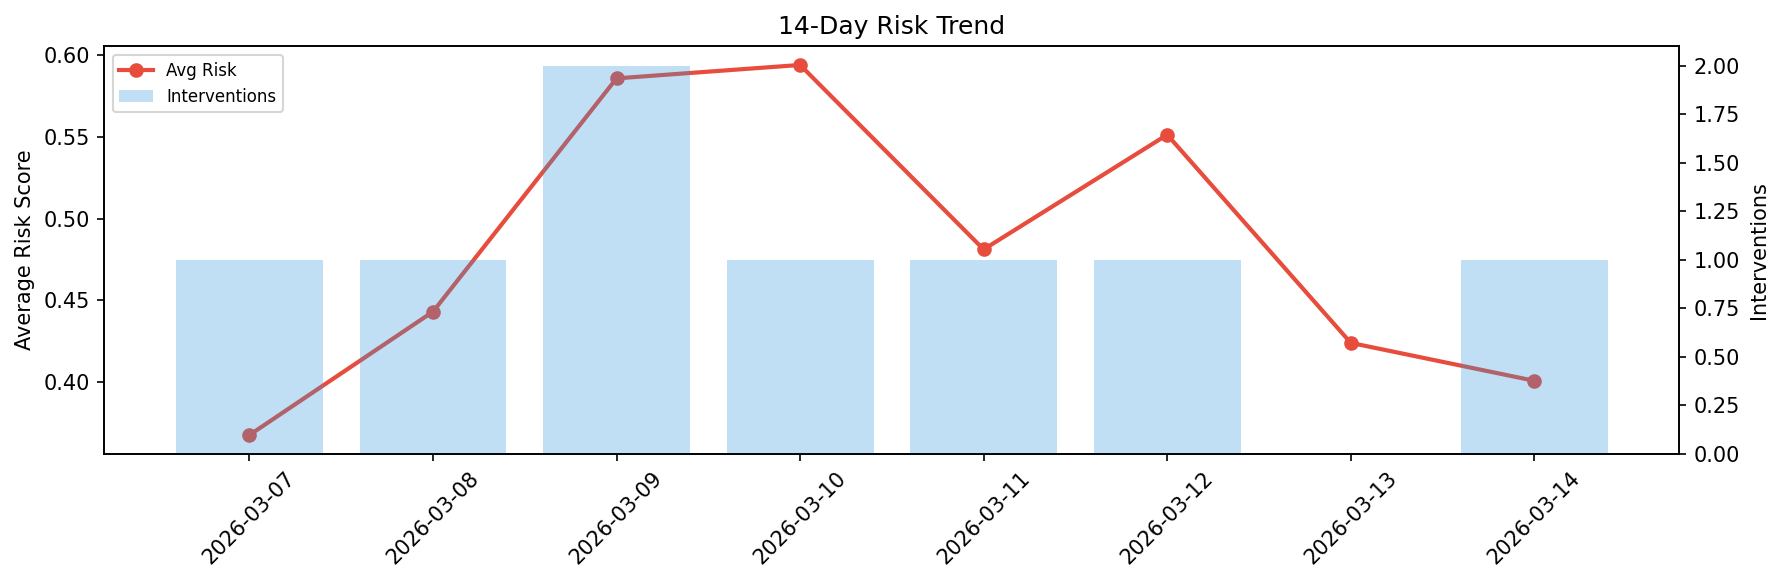
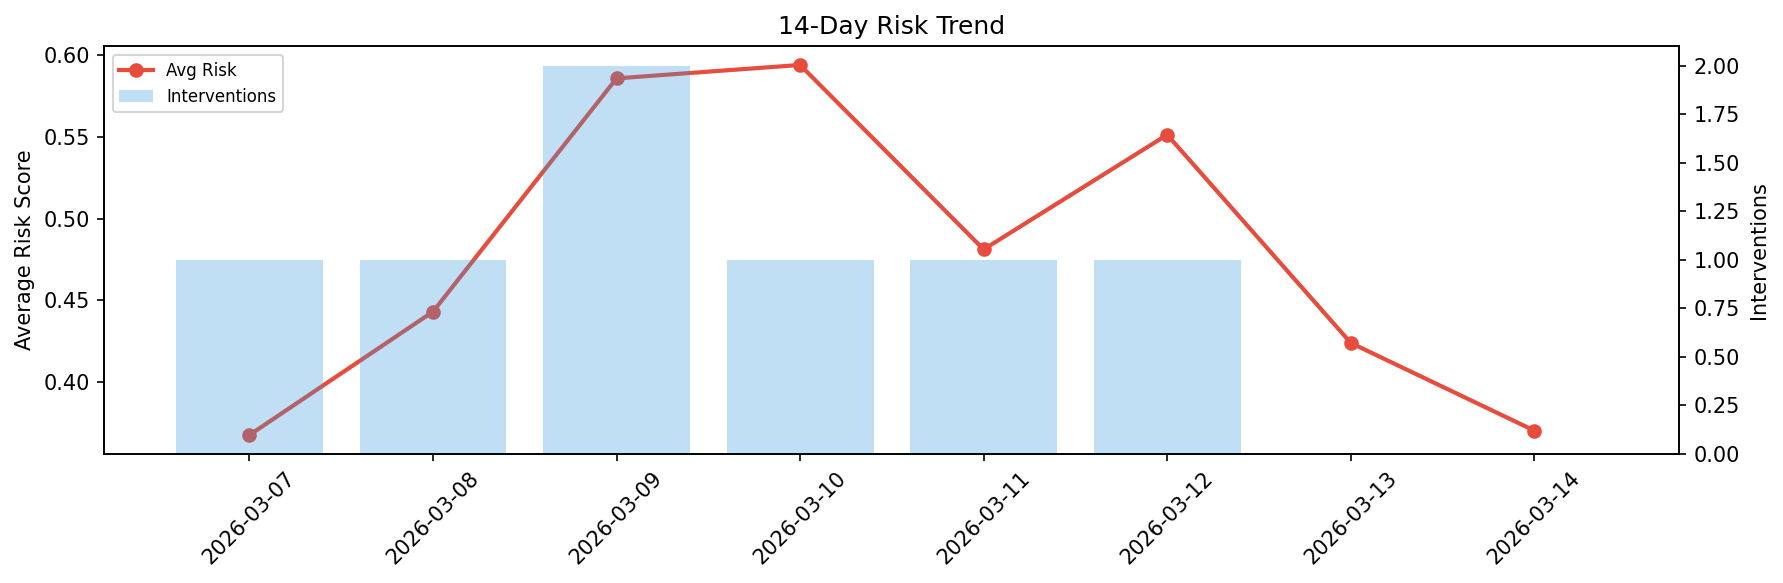
agent-improvement: daily cycle 2026-03-14T08:52

Changed region(s): [[0.7403, 0.4322, 0.9254, 0.8027]]

diff --git a/logs/2026-03-14.md b/logs/2026-03-14.md
@@ -1,6 +1,6 @@
 # Agent Improvement Report — 2026-03-14
 
-**Cycle ID:** `c63b9ded` | **Avg Risk:** 0.4008 | **Interventions:** 1/4
+**Cycle ID:** `0ab1f9ec` | **Avg Risk:** 0.3703 | **Interventions:** 0/4
 
 ![Dashboard](2026-03-14_dashboard.png)
 
@@ -10,18 +10,18 @@
 
 | Domain | Risk Score | Decision | Alerts |
 |--------|-----------|----------|--------|
-| code_review | 0.3869 | monitor | none |
-| incident_response | 0.1393 | monitor | none |
-| data_pipeline | 0.759 | intervene | schema_drift |
-| deployment | 0.3178 | monitor | latency_p99 |
+| code_review | 0.5447 | monitor | complexity |
+| incident_response | 0.2504 | monitor | none |
+| data_pipeline | 0.2512 | monitor | none |
+| deployment | 0.435 | monitor | none |
 
 ## Delta vs Yesterday
 
 | Domain | Today | Yesterday | Change |
 |--------|-------|-----------|--------|
-| code_review | 0.3869 | 0.3781 | 📈 2.3% |
-| incident_response | 0.1393 | 0.37 | 📉 -62.4% |
-| data_pipeline | 0.759 | 0.411 | 📈 84.7% |
-| deployment | 0.3178 | 0.5368 | 📉 -40.8% |
+| code_review | 0.5447 | 0.3781 | 📈 44.1% |
+| incident_response | 0.2504 | 0.37 | 📉 -32.3% |
+| data_pipeline | 0.2512 | 0.411 | 📉 -38.9% |
+| deployment | 0.435 | 0.5368 | 📉 -19.0% |
 
 **Refinement:** `{'adjustment': 'maintain', 'trend': 'improving', 'window': 4}`
